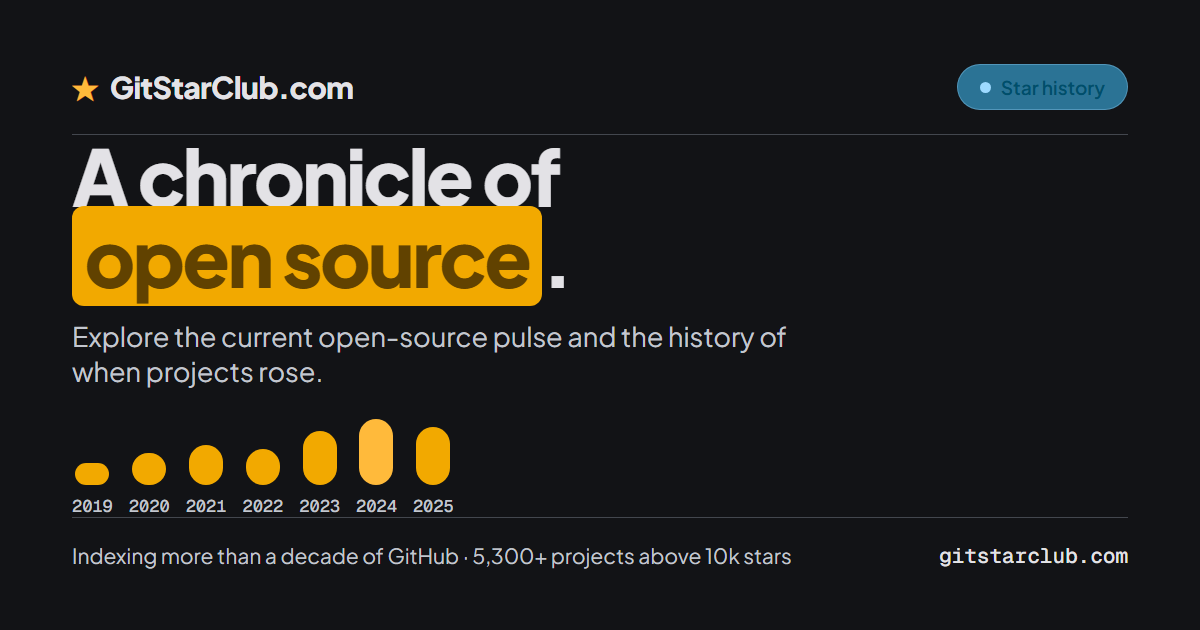
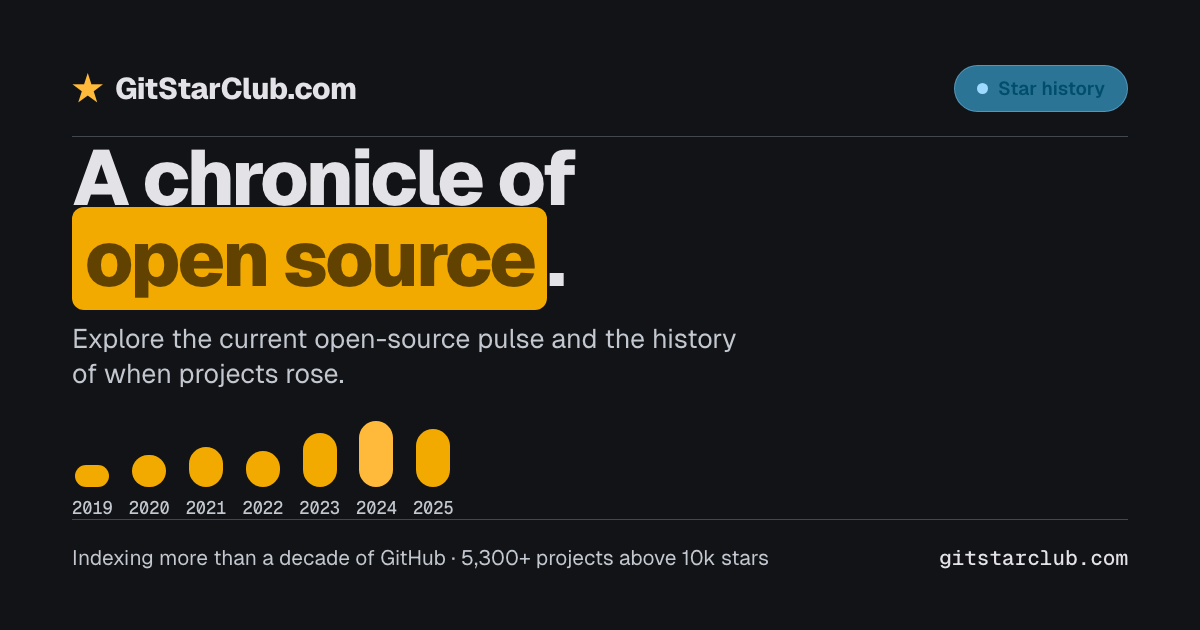
build: make static asset generation reproducible

diff --git a/web/lib/assets.test.ts b/web/lib/assets.test.ts
@@ -1,0 +1,53 @@
+import { afterEach, describe, expect, test } from "bun:test";
+import { copyFileSync, mkdirSync, mkdtempSync, readFileSync, rmSync, writeFileSync } from "node:fs";
+import { join } from "node:path";
+import { tmpdir } from "node:os";
+import {
+  inspectAssetCopies,
+  pngDimensions,
+  REPO_ROOT,
+  STATIC_ASSETS,
+  syncAssetCopies,
+} from "../../scripts/assets.mjs";
+
+const roots: string[] = [];
+
+afterEach(() => {
+  for (const root of roots.splice(0)) rmSync(root, { recursive: true, force: true });
+});
+
+function assetFixture(): string {
+  const root = mkdtempSync(join(tmpdir(), "gsc-assets-check-"));
+  roots.push(root);
+  mkdirSync(join(root, "assets"), { recursive: true });
+  for (const { asset } of STATIC_ASSETS) {
+    copyFileSync(join(REPO_ROOT, "assets", asset), join(root, "assets", asset));
+  }
+  syncAssetCopies(root);
+  return root;
+}
+
+describe("asset generation contract", () => {
+  test("checked-in PNG dimensions match every served contract", () => {
+    expect(pngDimensions(readFileSync(join(REPO_ROOT, "assets", "favicon.png")))).toEqual({ width: 64, height: 64 });
+    expect(pngDimensions(readFileSync(join(REPO_ROOT, "assets", "apple-touch-icon.png")))).toEqual({ width: 180, height: 180 });
+    expect(pngDimensions(readFileSync(join(REPO_ROOT, "assets", "og.png")))).toEqual({ width: 1200, height: 630 });
+  });
+
+  test("a synchronized canonical/deployed fixture passes", () => {
+    expect(inspectAssetCopies(assetFixture())).toEqual([]);
+  });
+
+  test("detects deployed content drift and missing assets", () => {
+    const root = assetFixture();
+    writeFileSync(join(root, "web", "public", "og.png"), "drift");
+    rmSync(join(root, "web", "public", "favicon.svg"));
+    expect(inspectAssetCopies(root)).toEqual(
+      expect.arrayContaining([
+        expect.stringContaining("og.png: deployed not a PNG"),
+        expect.stringContaining("og.png: deployed copy drift"),
+        "favicon.svg: missing deployed web/public/favicon.svg",
+      ]),
+    );
+  });
+});

diff --git a/assets/og.html b/assets/og.html
@@ -2,10 +2,19 @@
 <html lang="en">
 <head>
 <meta charset="UTF-8" />
-<link rel="preconnect" href="https://fonts.googleapis.com" />
-<link rel="preconnect" href="https://fonts.gstatic.com" crossorigin />
-<link href="https://fonts.googleapis.com/css2?family=Plus+Jakarta+Sans:wght@400;500;600;700;800&family=Geist+Mono:wght@400;500&display=swap" rel="stylesheet" />
 <style>
+  @font-face {
+    font-family: "GSC Sans";
+    src: url("../web/node_modules/next/dist/next-devtools/server/font/geist-latin.woff2") format("woff2");
+    font-weight: 100 900;
+    font-style: normal;
+  }
+  @font-face {
+    font-family: "GSC Mono";
+    src: url("../web/node_modules/next/dist/next-devtools/server/font/geist-mono-latin.woff2") format("woff2");
+    font-weight: 100 900;
+    font-style: normal;
+  }
   /* ===== Material 3 Expressive — graphite surfaces + star-gold accent ===== */
   :root {
     --md-sys-color-primary-container: #f2a900;
@@ -22,8 +31,8 @@
 
     --shape-m: 12px;
     --shape-full: 999px;
-    --font-sans: "Plus Jakarta Sans", system-ui, sans-serif;
-    --font-mono: "Geist Mono", ui-monospace, monospace;
+    --font-sans: "GSC Sans", sans-serif;
+    --font-mono: "GSC Mono", monospace;
   }
 
   * { margin: 0; padding: 0; box-sizing: border-box; }

diff --git a/assets/icon.html b/assets/icon.html
@@ -1,5 +1,5 @@
 <!DOCTYPE html>
-<html>
+<html lang="en">
 <head><meta charset="UTF-8" />
 <style>
   * { margin: 0; padding: 0; }

diff --git a/docs/SEO.md b/docs/SEO.md
@@ -1,7 +1,7 @@
 ---
 owner: SEO
 status: active
-last_reviewed: 2026-07-06
+last_reviewed: 2026-07-17
 source_of_truth_for:
   - per-page SEO templates
   - sitemap structure
@@ -899,7 +899,7 @@ SSG + 零客户端 JS + HTML < 20KB 天然满足（见 [ARCHITECTURE.md](./ARCHI
 - **Twitter card**：`pageMeta` 设 `twitter.card = "summary_large_image"`；`twitter.title` / `twitter.description` / `twitter.images` 复用各页 meta 与上述卡片路由。
 - **Open Graph**：`pageMeta` 输出 `og:title` / `og:description` / `og:url`（canonical）/ `og:image`（指卡片路由）/ `og:locale`。`og:type`（`website` vs `article`+published/modified time）与 `og:site_name` 由根 `app/layout.tsx` 的 metadata 统一提供，未在 `pageMeta` 内逐页设。
 - **alt 文本**：各 `opengraph-image.tsx` 导出 `alt`（站点卡 `GitStarClub.com — A Chronicle of Open Source`；repo 卡 `GitHub star history`；排名卡 `GitHub star rankings`）。
-- **旧 teaser 资产**：`assets/og.html` 是根目录静态 teaser 的 1200×630 源模板，`render-assets.mjs` 生成 `assets/og.png`，`build.mjs` 同步到根 `public/og.png`；Next 应用的 fallback 静态图同步放在 `web/public/og.png`。其 wordmark 与计数需保持 `GitStarClub.com` / `5,300+`，避免与动态 `opengraph-image.tsx` 分叉。
+- **静态 fallback 资产**：`assets/og.html` / `assets/icon.html` 是唯一渲染源，字体从锁定的 Next 依赖本地读取，不访问外部字体服务。先在 `web/` 执行 `bunx playwright install chromium`，再于根目录执行 `bun run assets:render`；该命令使用仓库锁定的 Playwright Chromium 生成 `assets/{og, favicon, apple-touch-icon}.png` 并同步 `web/public/`。`bun run assets:check` 会重新渲染并校验 1200×630 / 64×64 / 180×180 尺寸、源图漂移、缺失文件及 deployed-copy 字节漂移；提交前需人工查看三张生成图。`build.mjs` 也通过同一同步函数维护 Next 部署目录与被忽略的 legacy teaser `public/`。wordmark 与计数需保持 `GitStarClub.com` / `5,300+`，避免与动态 `opengraph-image.tsx` 分叉。
 
 ---
 
